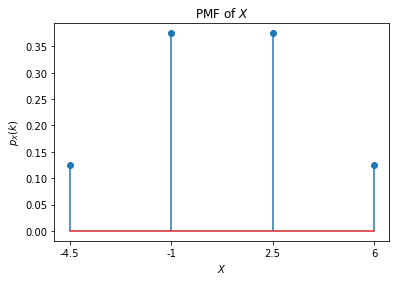
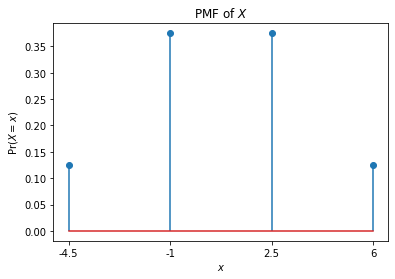
Add files via upload

Changed region(s): [[0.0, 0.0287, 1.0, 0.9462], [0.9418, 0.5735, 0.9722, 0.6022], [0.5468, 0.9462, 0.5772, 0.9749]]

diff --git a/Assignment14/Assignment14.tex b/Assignment14/Assignment14.tex
@@ -173,6 +173,16 @@ where
     n=3,p=\frac{1}{2},k=0,1,2,3
 \end{align}
 
+For $k \in \{0,1,2,3\}$,value of $X$ is given by
+\begin{align}
+    X &= x \in \{-4.5,-1,2.5,6\}
+\end{align}
+
+So,
+\begin{align}
+    p_{X}(k) = \pr{X=x}
+\end{align}
+
 \numberwithin{figure}{section}
 \begin{figure}[!ht]
 \centering

diff --git a/Assignment14/Assignment14.py b/Assignment14/Assignment14.py
@@ -32,7 +32,7 @@ data = {'-4.5':1/8, '-1':3/8, '2.5':3/8, '6':1/8}
 key = list(data.keys())
 value = list(data.values())
 plt.stem(key,value,use_line_collection = True)
-plt.xlabel("$X$")
-plt.ylabel("$p_{X}(k)$")
+plt.xlabel("$x$")
+plt.ylabel("Pr($X=x$)")
 plt.title("PMF of $X$")
 plt.show()
